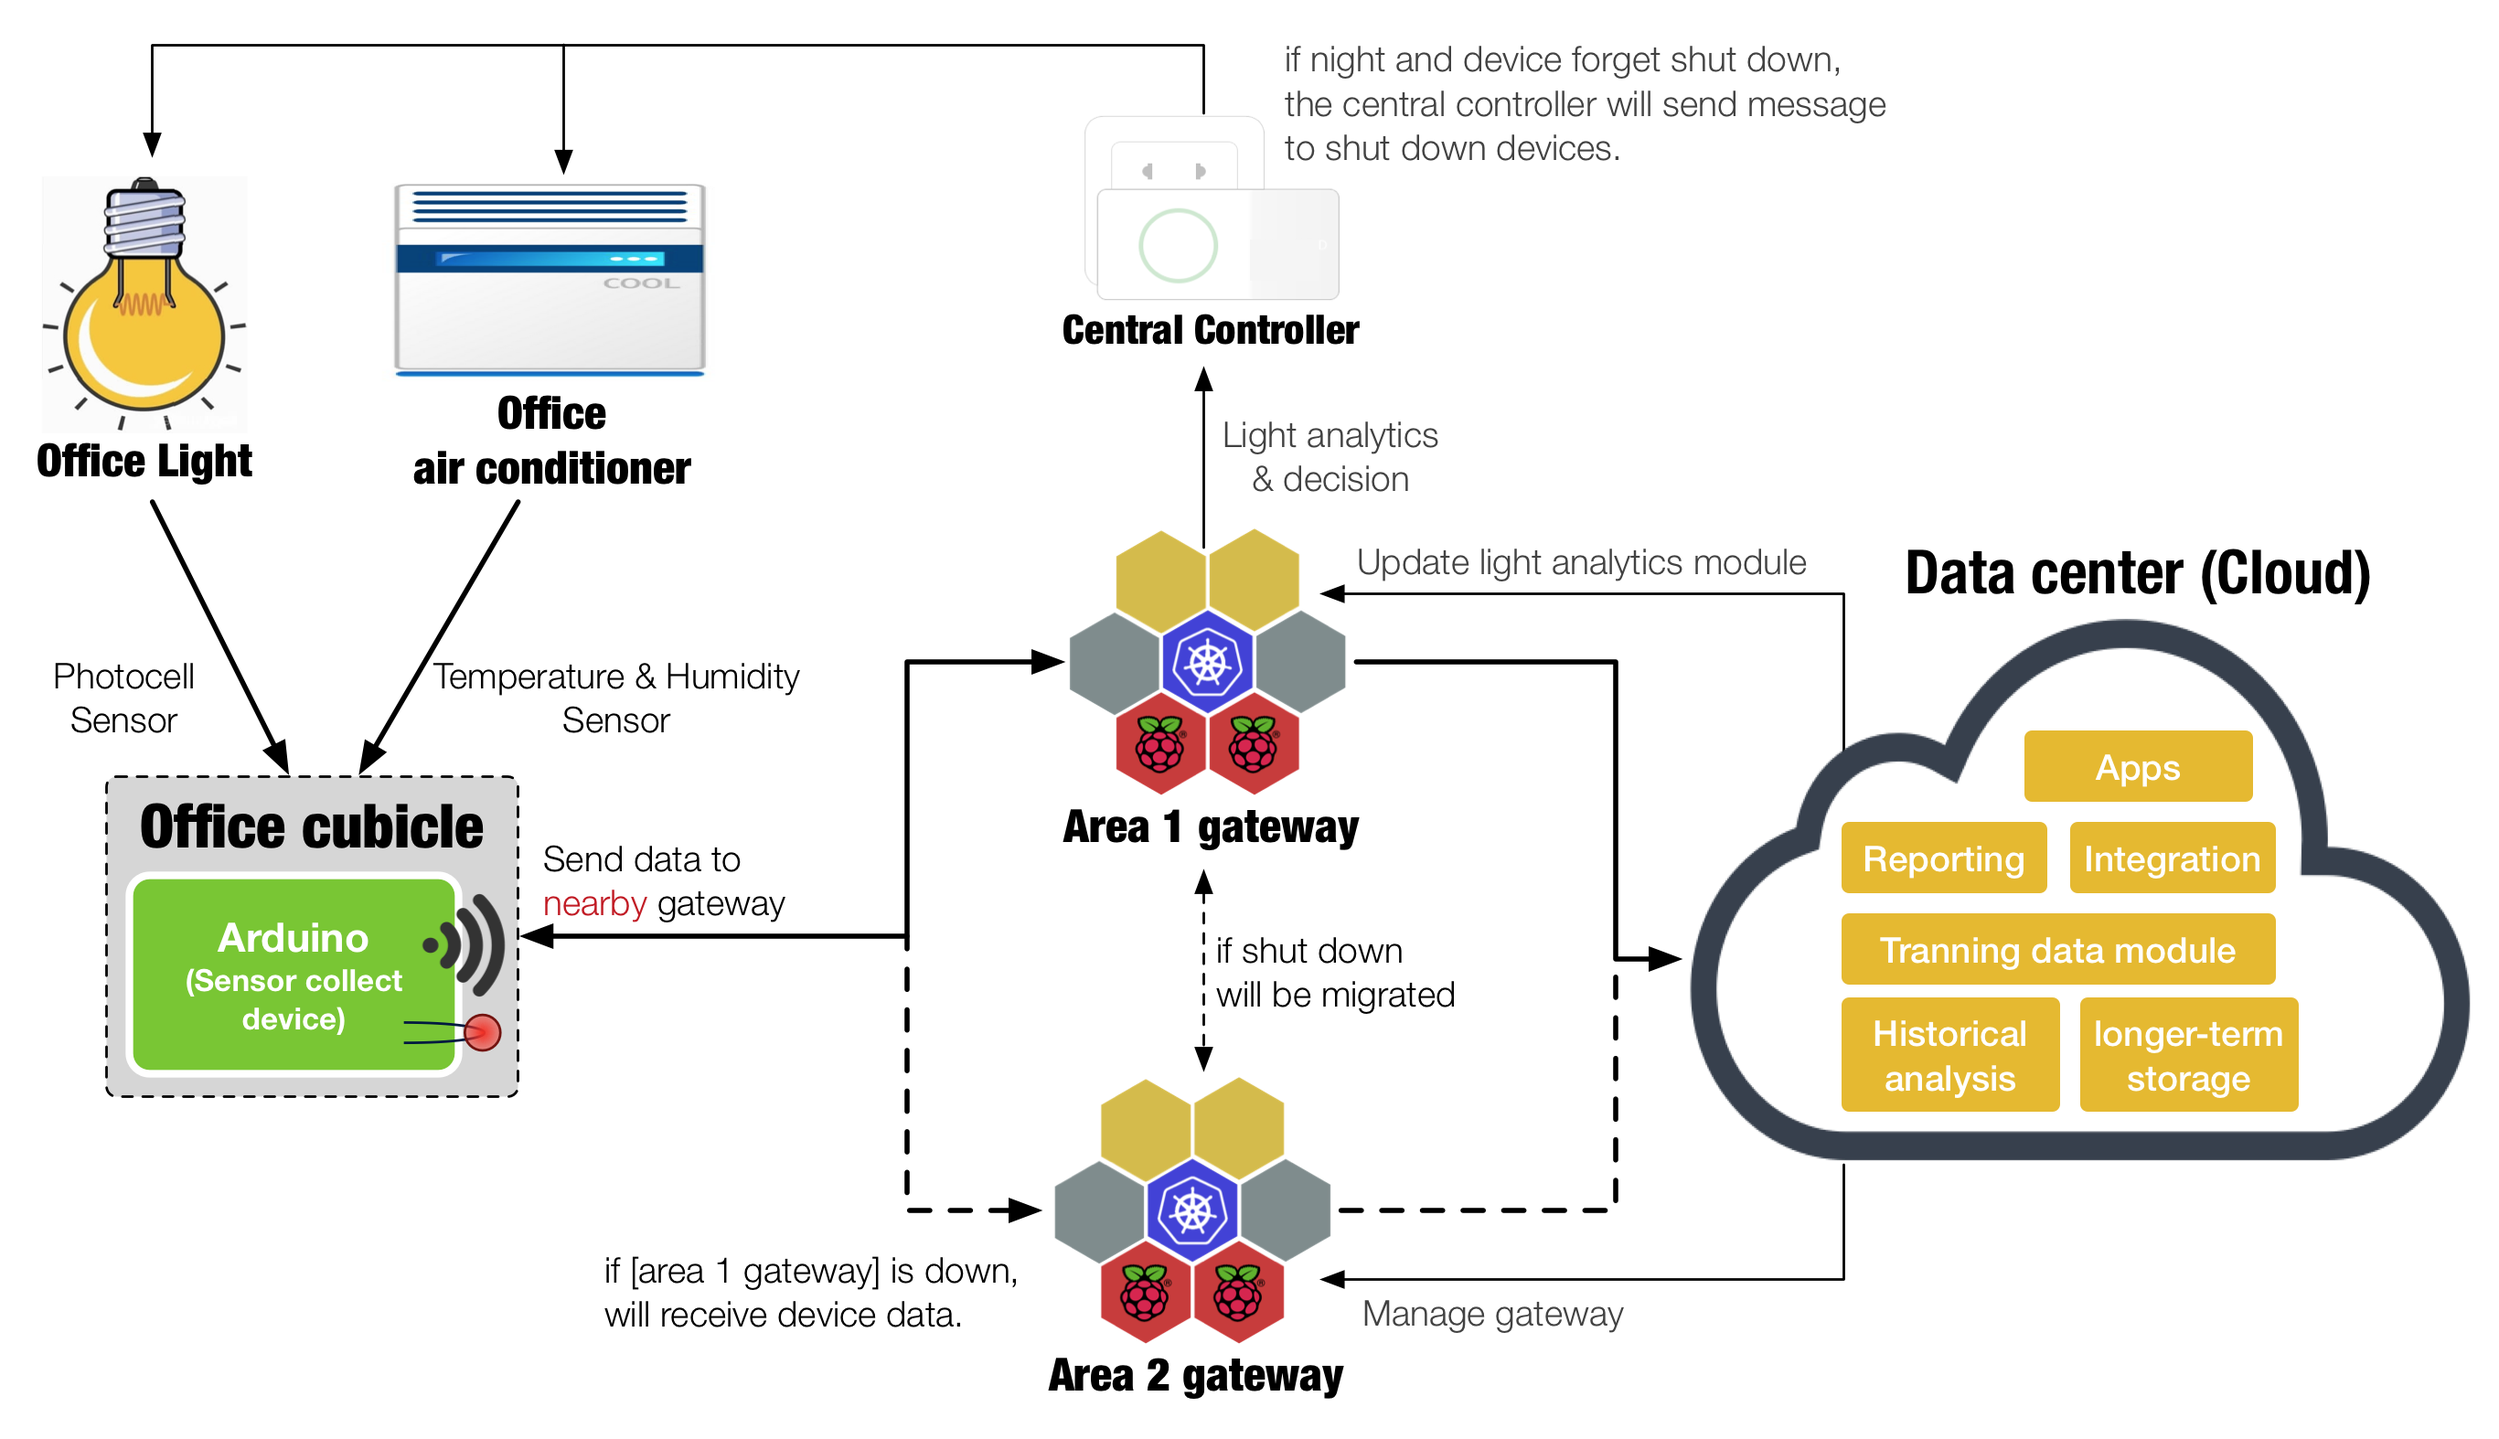
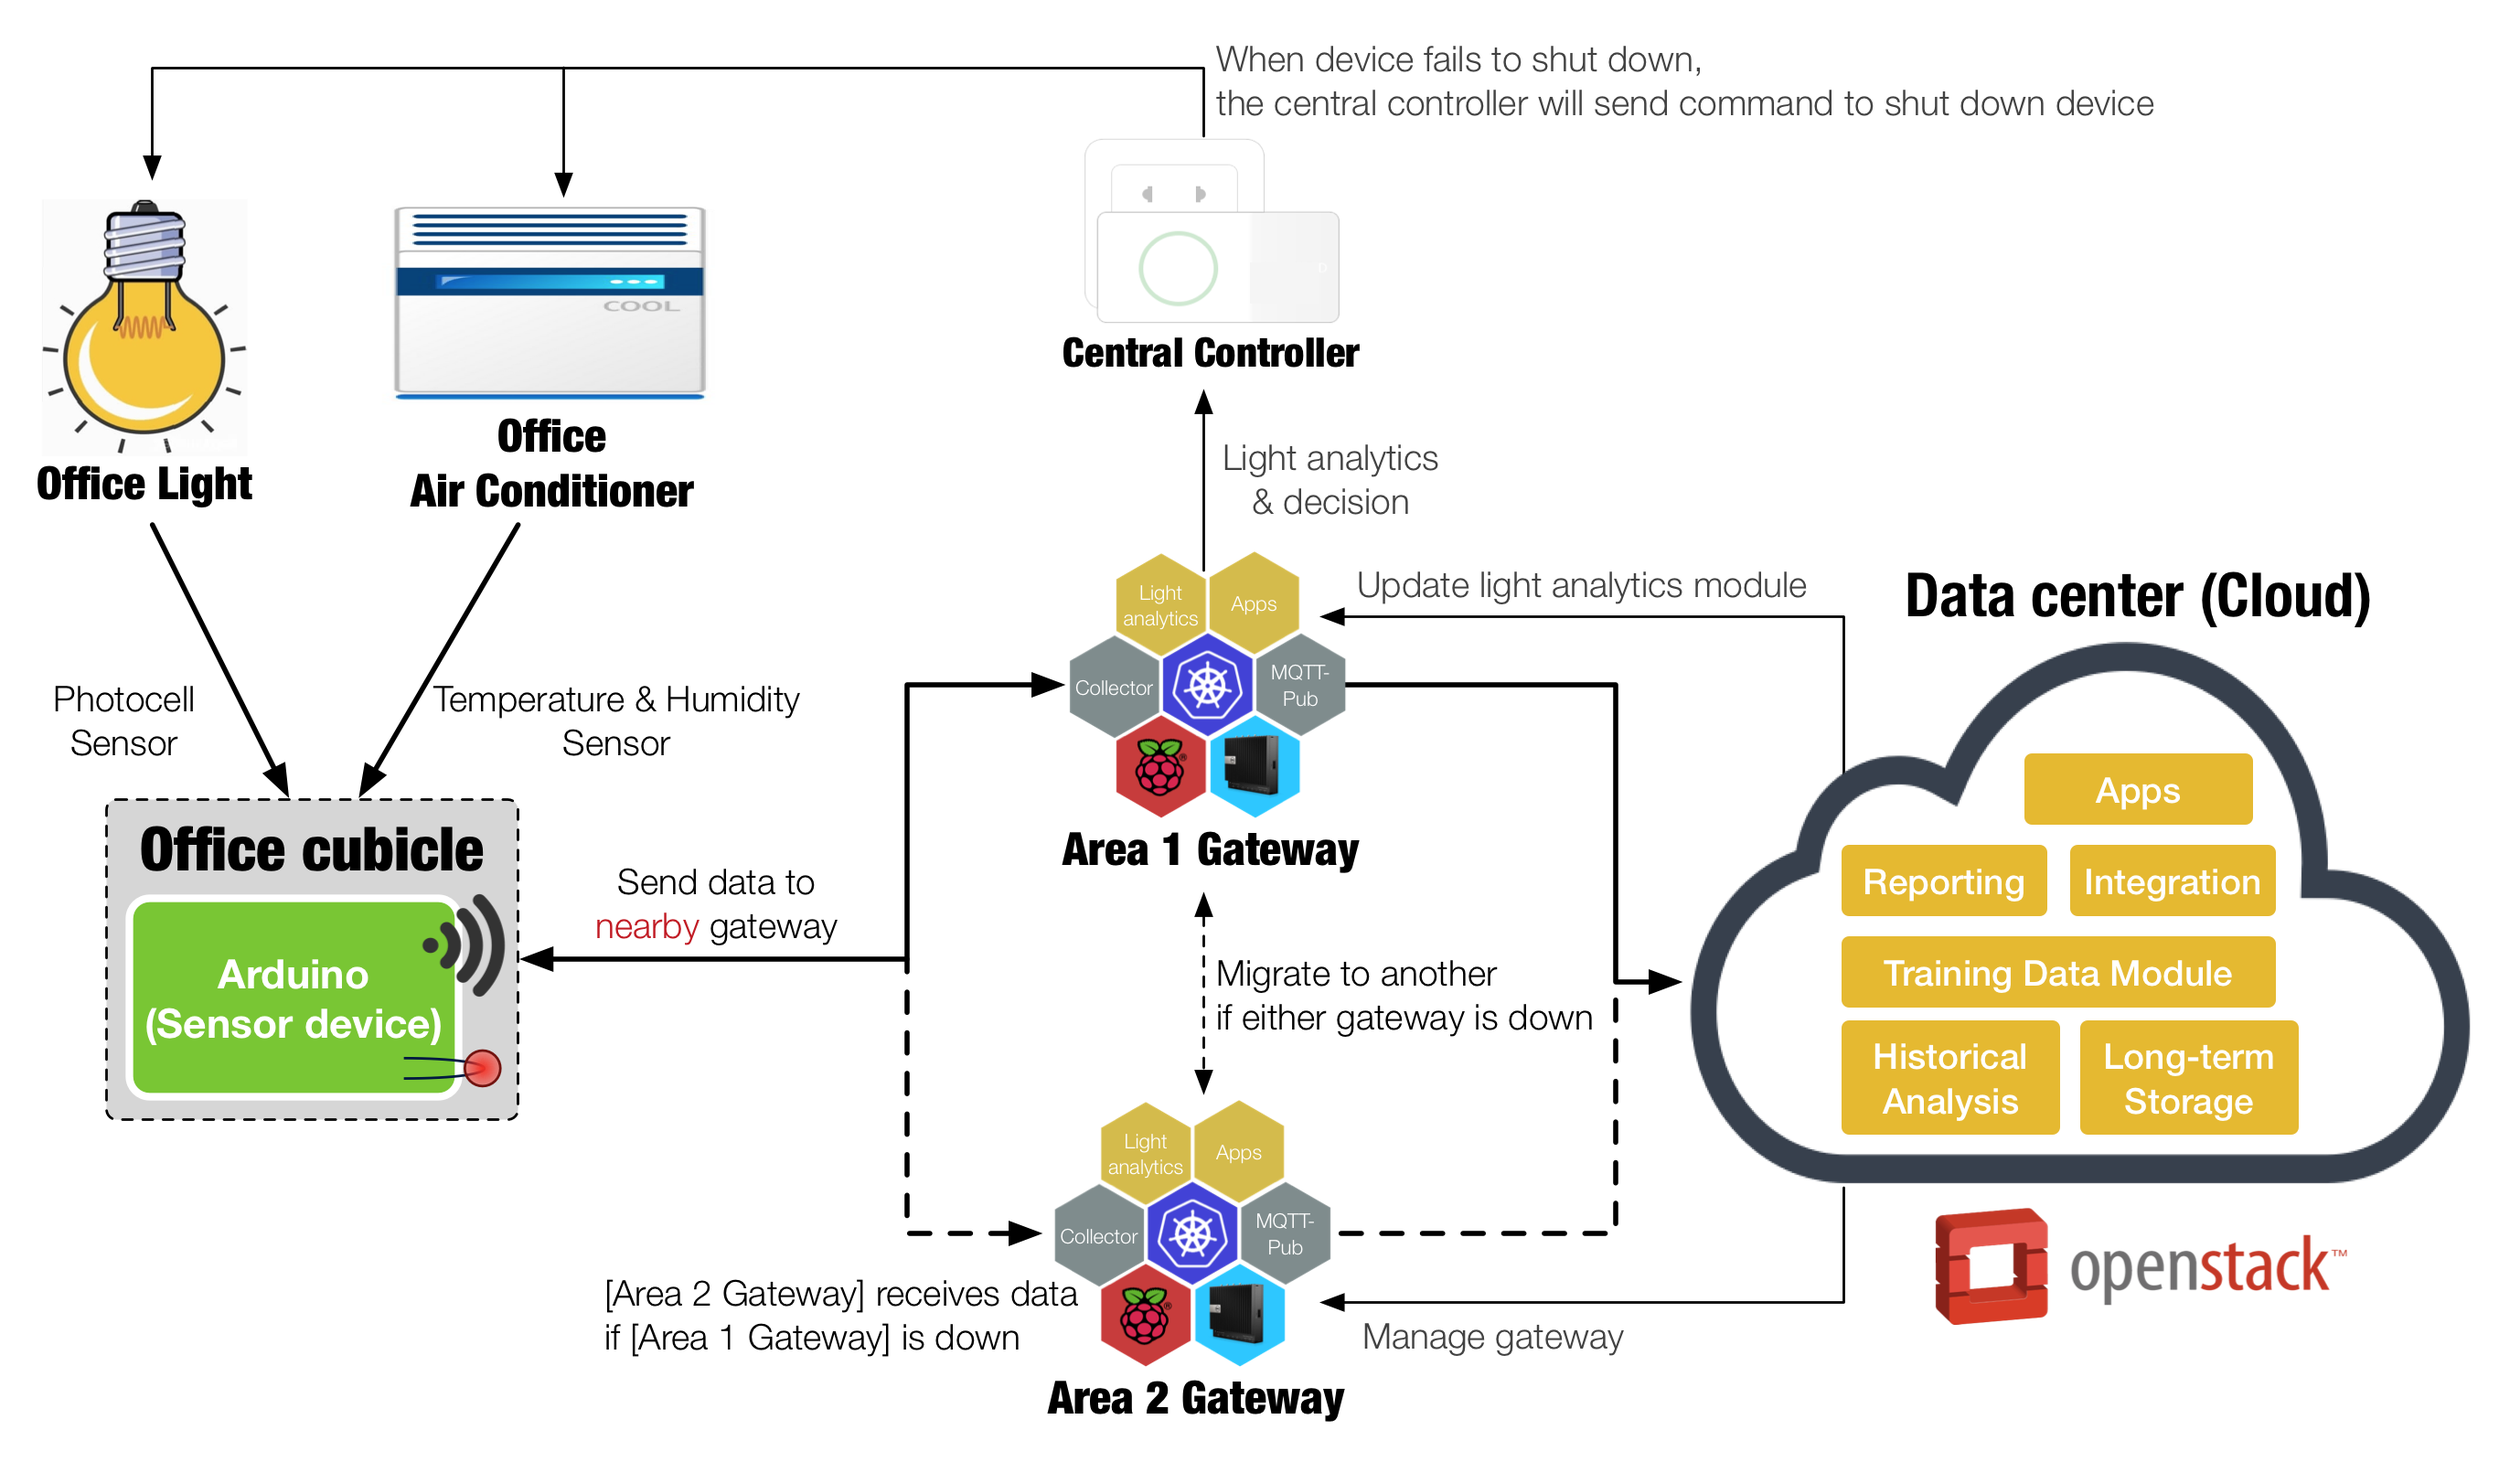
Update demo version

diff --git a/docker/receiver/receiver.py b/docker/receiver/receiver.py
@@ -4,18 +4,25 @@
 
 import os
 import json
+import commands
 import datetime
+import psutil
 import paho.mqtt.client as mqtt
 
-DEBUG = os.environ.get('DEBUG', 'False')
-SUB_SERVER_IP = os.environ.get('LOCAL_MQTT_IP', "172.20.3.27")
+DEBUG = os.environ.get('DEBUG', 'True')
+SUB_SERVER_IP = os.environ.get('LOCAL_MQTT_IP', "192.168.1.103")
 SUB_SERVER_PORT = 1883
 SUB_TOPIC = "gateway"
 SUB_TIMEOUT = 60
 
-PUB_SERVER_IP = os.environ.get('REMOTE_MQTT_IP', "172.20.3.21")
+PUB_SERVER_IP = os.environ.get('REMOTE_MQTT_IP', "192.168.1.105")
 PUB_SERVER_PORT = 1883
 PUB_TOPIC = os.environ.get('MQTT_PUB_TOPIC', "Test")
+
+ACCESS_TOKENS = os.environ.get('ACCESS_TOKENS', "GatewayArea1")
+
+attribute_topic = "v1/devices/me/attributes"
+telemetry_topic = "v1/devices/me/telemetry"
 
 
 def on_connect(client, userdata, flags, rc):
@@ -25,13 +32,22 @@ def on_connect(client, userdata, flags, rc):
 
 def on_message(client, userdata, msg):
     mqttc = mqtt.Client("pub")
+    mqttc.username_pw_set(ACCESS_TOKENS)
     mqttc.connect(PUB_SERVER_IP, PUB_SERVER_PORT)
+
     try:
-        payload = json.loads(str(msg.payload))
-        payload.update({"date": "{0}".format(datetime.datetime.now())})
-        mqttc.publish(PUB_TOPIC, json.dumps(payload), qos=1)
+        attr_pl = {
+            "kernel_release": commands.getoutput('uname -r'),
+            "hardware_architecture": commands.getoutput('uname -m'),
+            "operating_system": "HypriotOS",
+            "cpu_usage": psutil.cpu_percent(),
+            "memory_usage": psutil.virtual_memory().percent
+        }
+        data_pl = json.loads(str(msg.payload))
+        mqttc.publish(attribute_topic, json.dumps(attr_pl), qos=1)
+        mqttc.publish(telemetry_topic, json.dumps(data_pl), qos=1)
         if DEBUG == "True":
-            print("{0} : {1}".format(msg.topic, json.dumps(payload)))
+            print("{0} : {1}".format(msg.topic, json.dumps(data_pl)))
     except Exception as e:
         print("Message is not JSON format")
 

diff --git a/README.md b/README.md
@@ -1,8 +1,13 @@
 # IoT Demo
 IoT Demo utilising Arduino, ESP8266, RaspberryPi, and Kubernetes.
 
-### architecture
+### Architecture
+Concept architectural design.
 ![](images/architecture.png)
 
 ### Scenario
+Smart Office Use Case.
 ![](images/scenario.png)
+
+### Simple dashboard
+![](images/dashboard.png)
